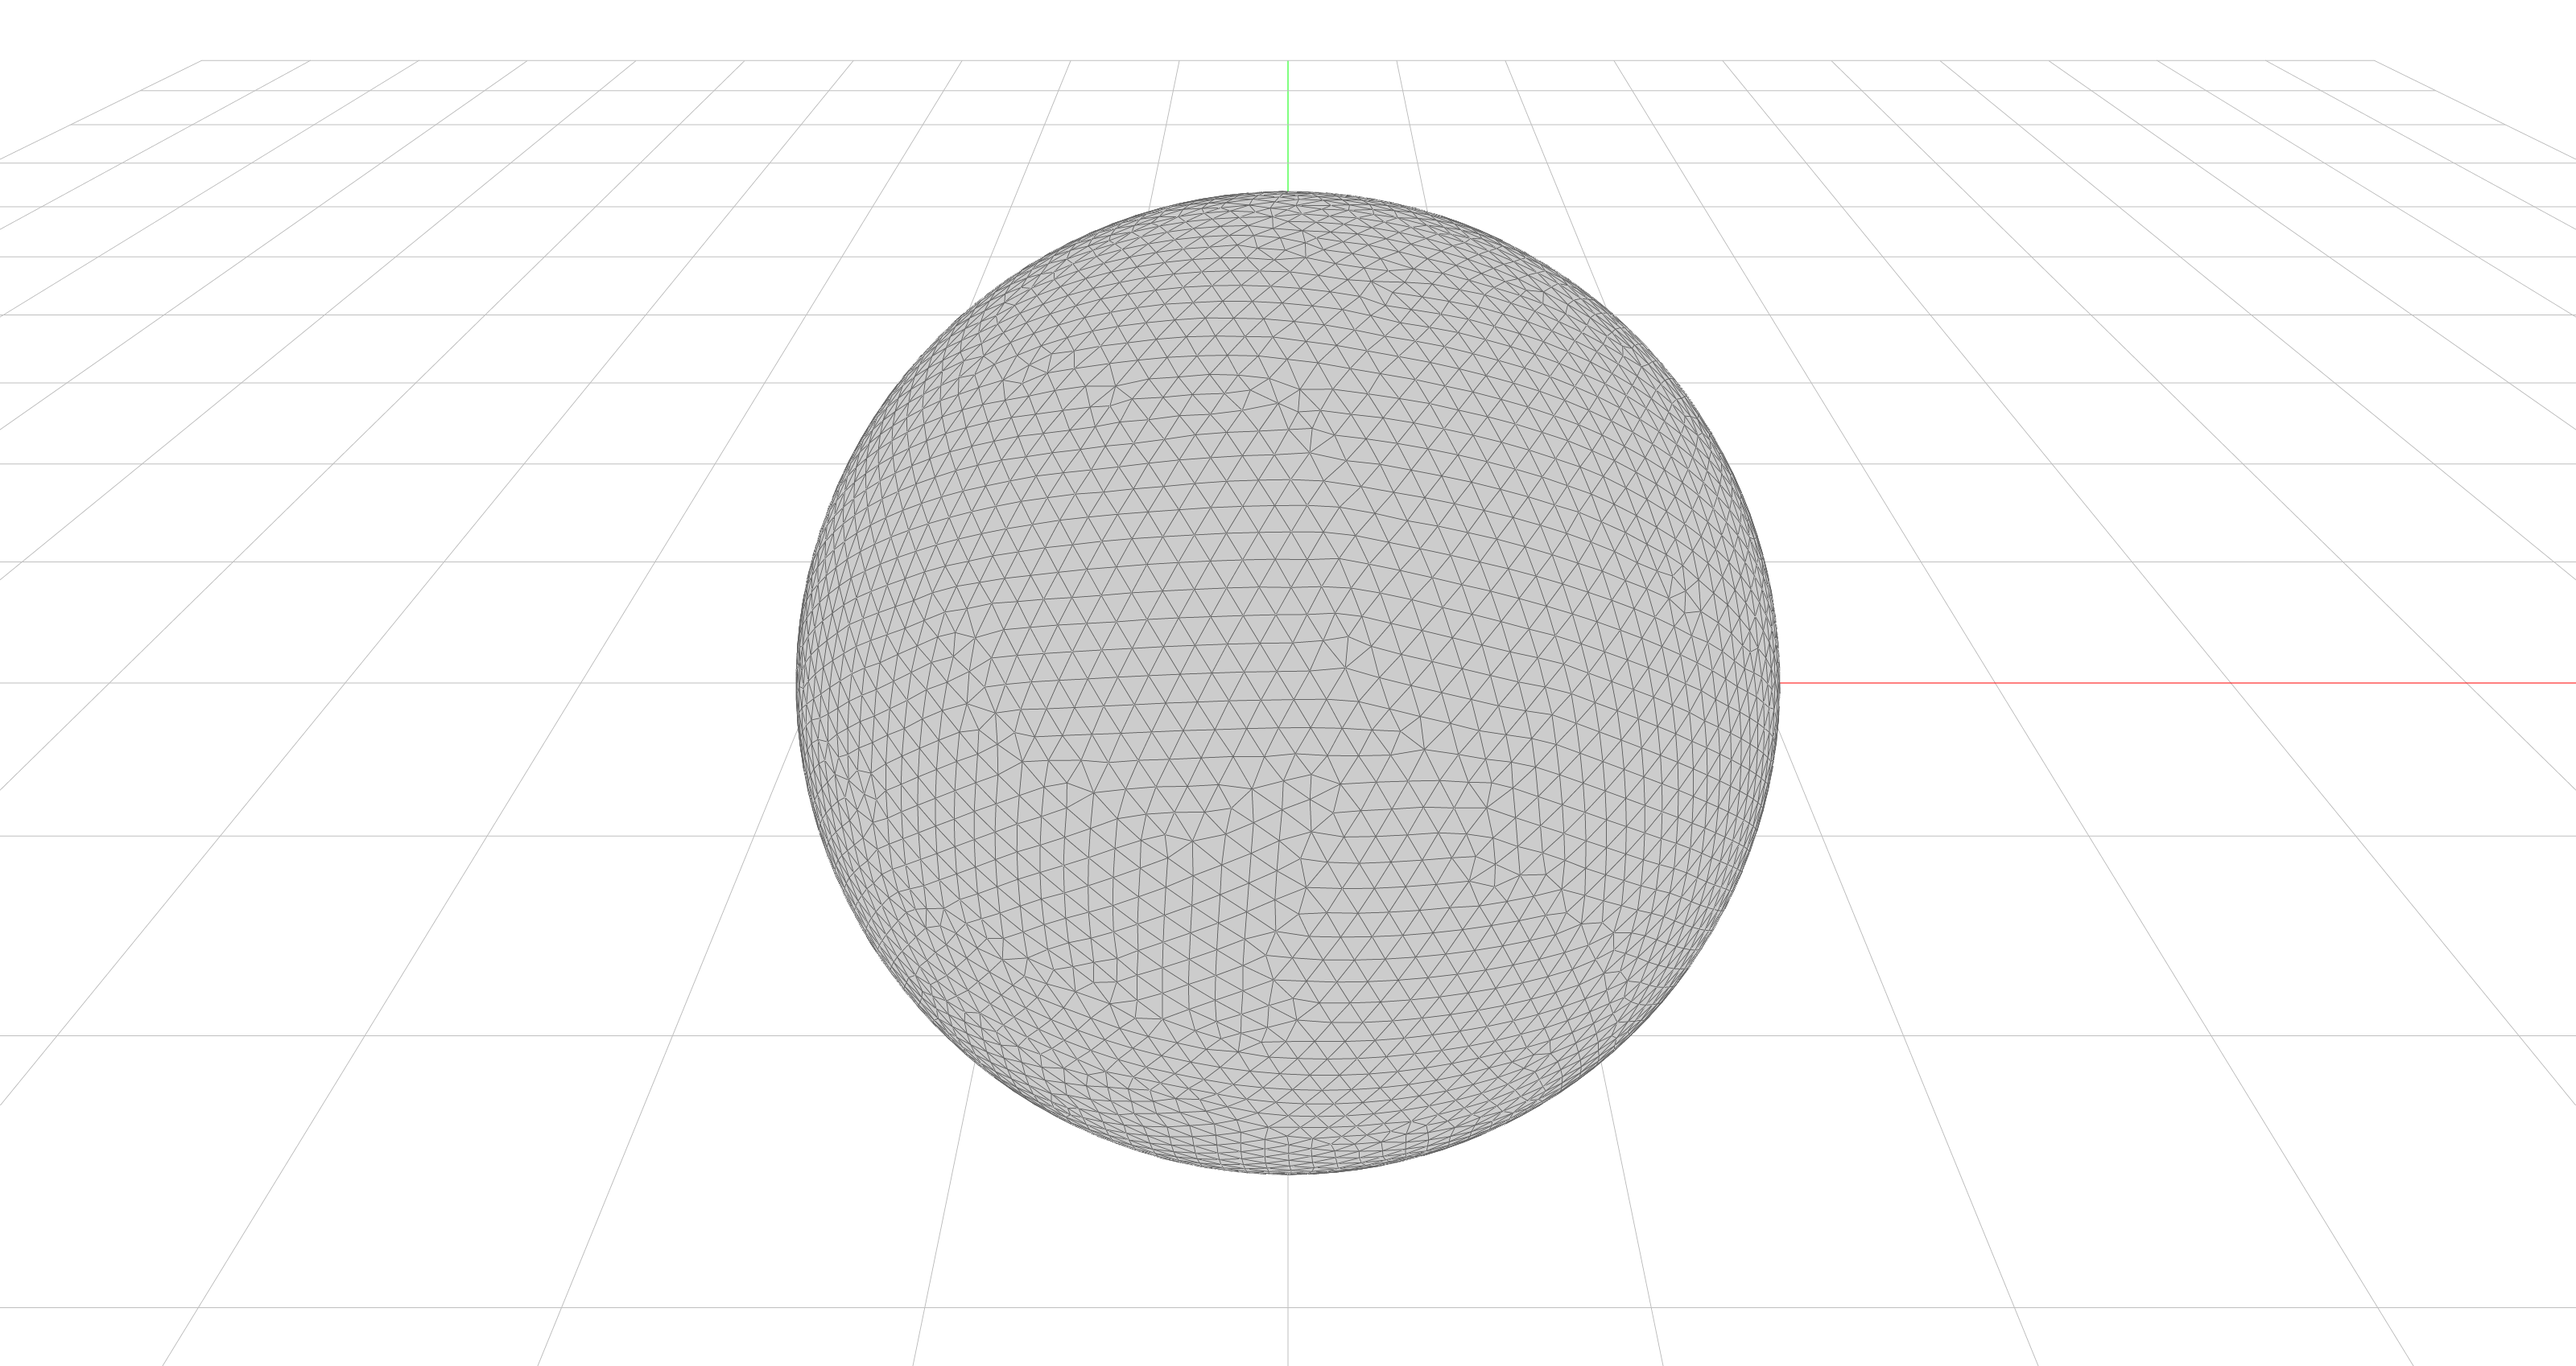
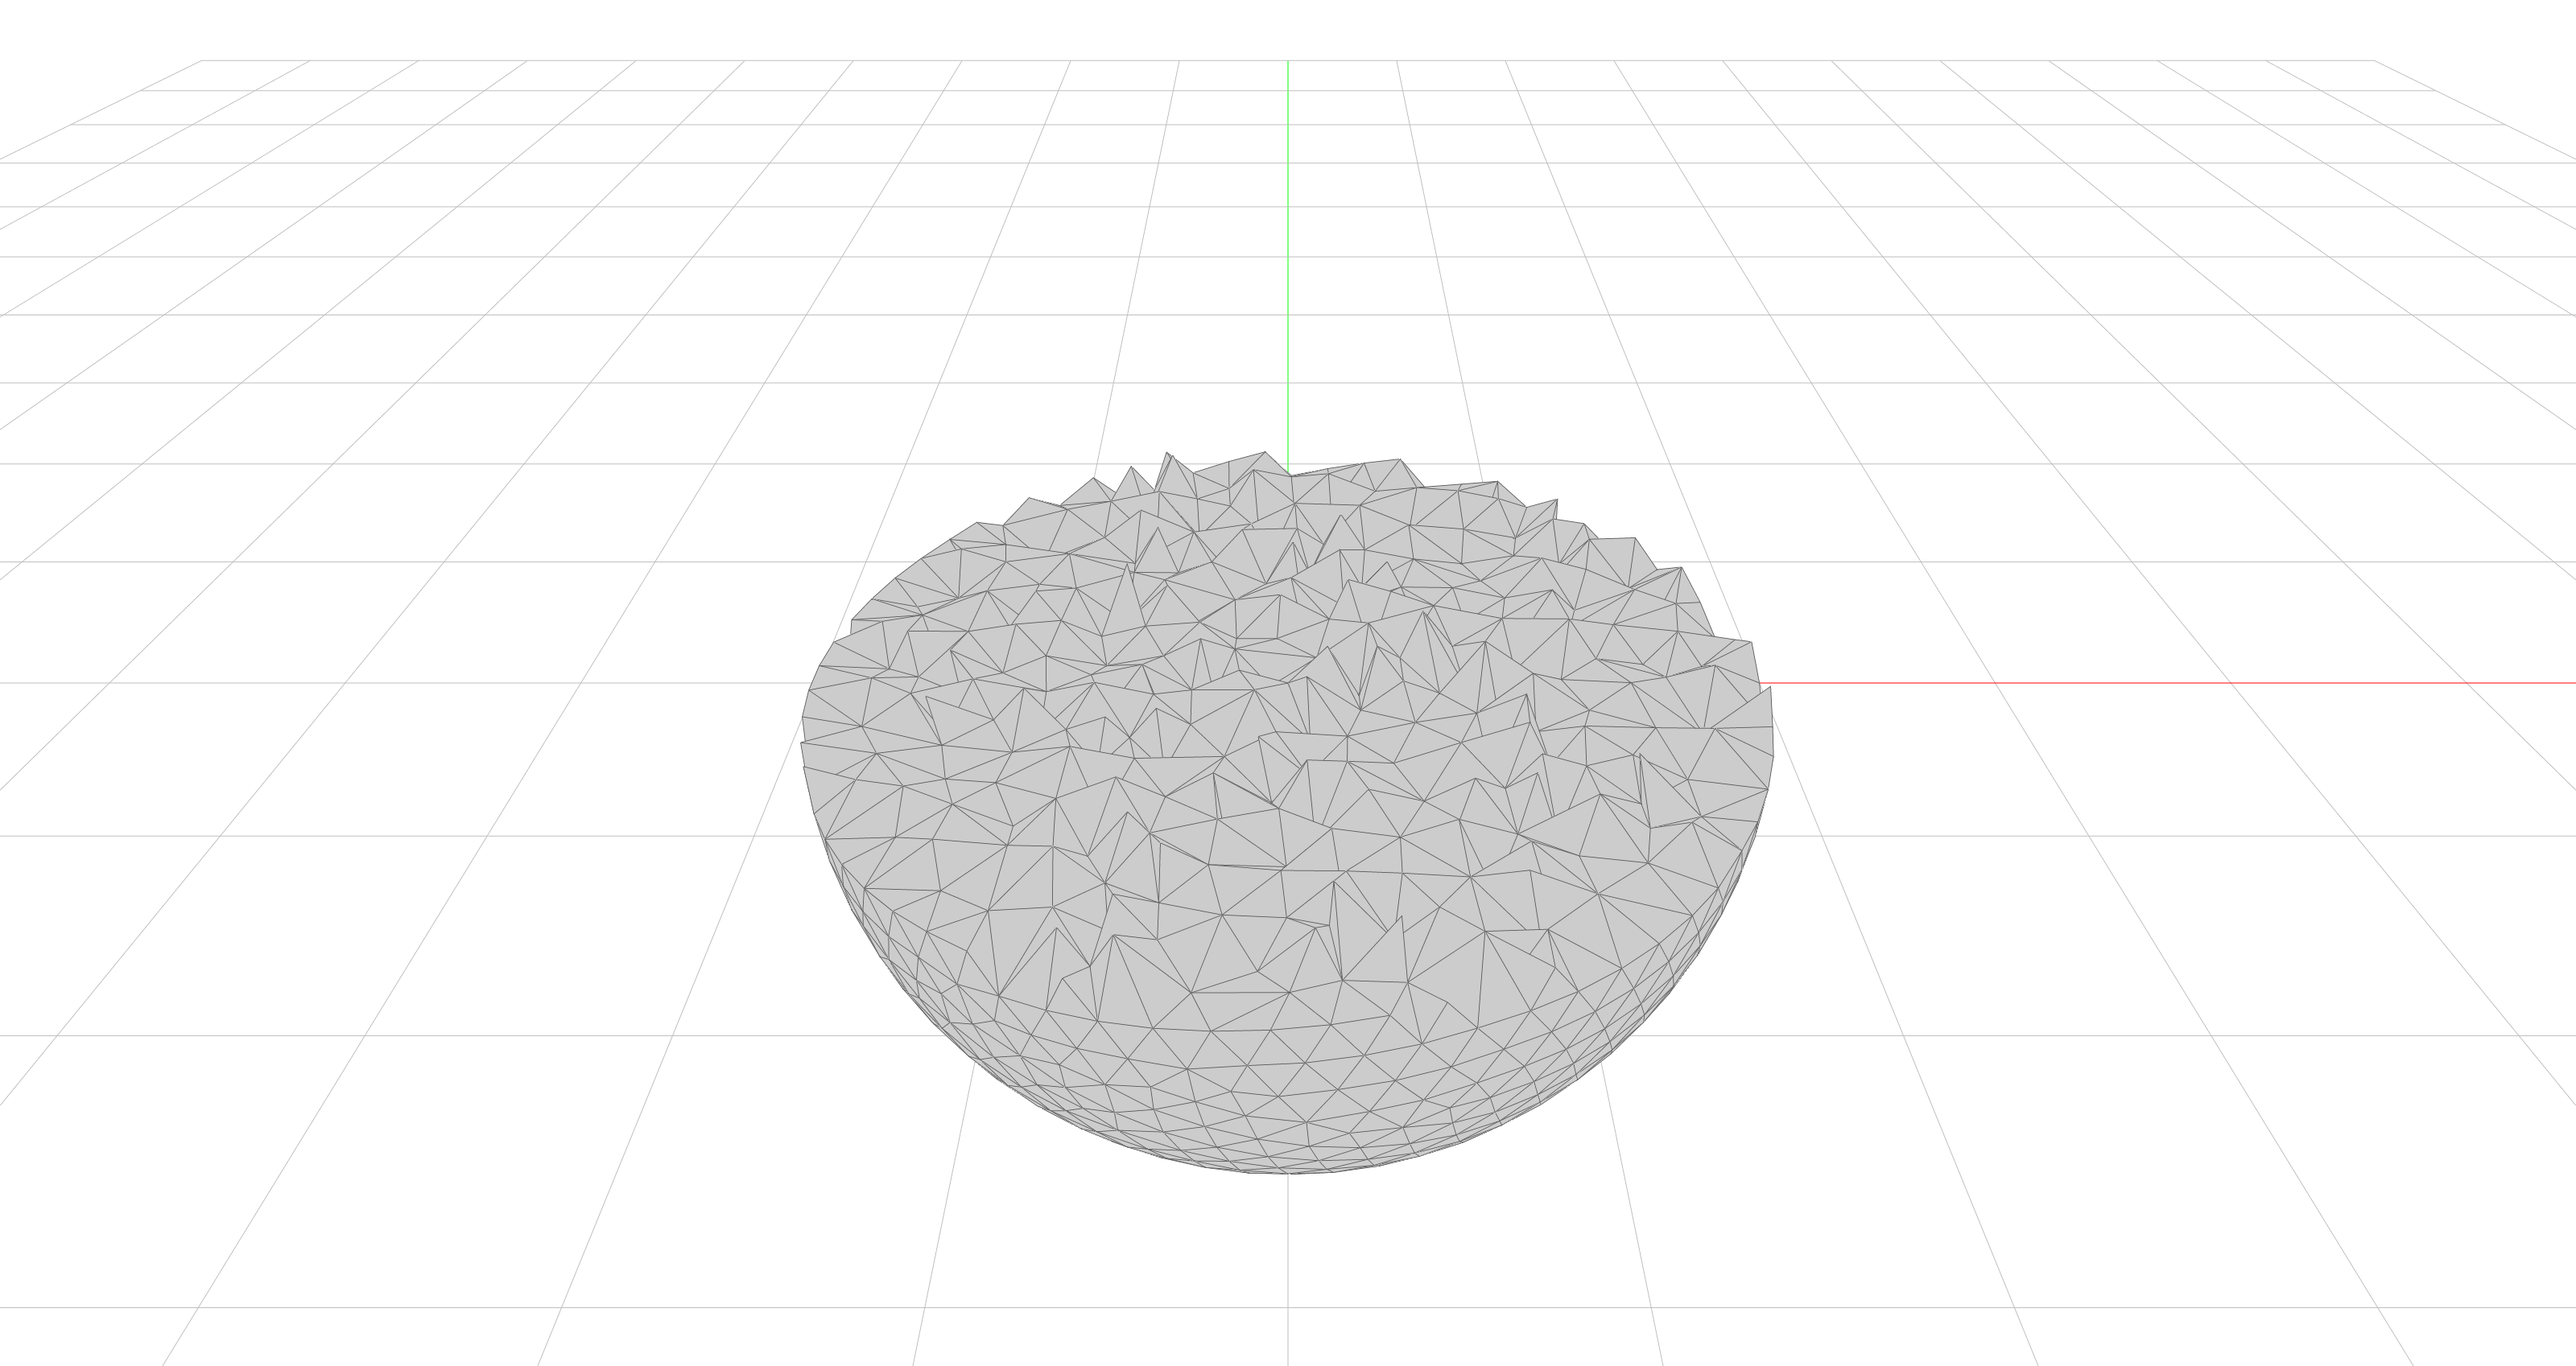
actual tets

Changed region(s): [[0.2812, 0.1249, 0.7188, 0.874]]

diff --git a/src/compas_gmsh/models/model.py b/src/compas_gmsh/models/model.py
@@ -1,10 +1,9 @@
-from __future__ import annotations
-
-from typing import Optional
+from typing import List, Optional
 
 import sys
 import gmsh
 
+from compas.geometry import Polyhedron
 from compas.datastructures import Mesh
 
 from compas_gmsh.options import MeshAlgorithm
@@ -17,7 +16,7 @@ class Model:
     def __init__(self,
                  name: str,
                  verbose: bool = False,
-                 algo: MeshAlgorithm = MeshAlgorithm.FrontalDelaunay) -> Model:
+                 algo: MeshAlgorithm = MeshAlgorithm.FrontalDelaunay) -> None:
         gmsh.initialize(sys.argv)
         gmsh.option.setNumber("General.Terminal", int(verbose))
         gmsh.option.setNumber("Mesh.Algorithm", algo.value)
@@ -105,16 +104,49 @@ class Model:
         faces = []
         for etype, etags, ntags in zip(*elements):
             if etype == 2:
-                # triangles
+                # triangle
                 for i, etag in enumerate(etags):
                     n = self.mesh.getElementProperties(etype)[3]
-                    triangle = ntags[i * n: i * n + n]
-                    faces.append(triangle.tolist())
+                    a, b, c = ntags[i * n: i * n + n]
+                    faces.append([a, b, c])
             elif etype == 3:
-                # quads
+                # quad
                 for i, etag in enumerate(etags):
                     n = self.mesh.getElementProperties(etype)[3]
-                    quad = ntags[i * n: i * n + n]
-                    faces.append(quad.tolist())
+                    a, b, c, d = ntags[i * n: i * n + n]
+                    faces.append([a, b, c, d])
 
         return Mesh.from_vertices_and_faces(xyz, faces)
+
+    def mesh_to_openmesh(self) -> Mesh:
+        """Convert the model mesh to a COMPAS mesh data structure."""
+        pass
+
+    def mesh_to_volmesh(self) -> Mesh:
+        """Convert the model mesh to a COMPAS mesh data structure."""
+        pass
+
+    def mesh_to_tets(self) -> List[Polyhedron]:
+        """Convert the model mesh to a COMPAS mesh data structure."""
+        nodes = self.mesh.getNodes()
+        node_tags = nodes[0]
+        node_coords = nodes[1].reshape((-1, 3), order='C')
+        xyz = {}
+        for tag, coords in zip(node_tags, node_coords):
+            xyz[int(tag)] = coords.tolist()
+        elements = self.mesh.getElements()
+        tets = []
+        for etype, etags, ntags in zip(*elements):
+            if etype == 4:
+                # tetrahedron
+                for i, etag in enumerate(etags):
+                    n = self.mesh.getElementProperties(etype)[3]
+
+                    vertices = [xyz[index] for index in ntags[i * n: i * n + n]]
+                    faces = [
+                        [0, 1, 2],
+                        [0, 2, 3],
+                        [1, 3, 2],
+                        [0, 3, 1]]
+                    tets.append(Polyhedron(vertices, faces))
+        return tets

diff --git a/docs/examples/tets.py b/docs/examples/tets.py
@@ -1,6 +1,6 @@
-from compas.geometry import Sphere
-
+from compas.geometry import Sphere, centroid_points
 from compas_view2.app import App
+from compas_view2.objects import Collection
 from compas_gmsh.models import ShapeModel
 
 # ==============================================================================
@@ -17,8 +17,8 @@ model = ShapeModel(name="tets")
 
 model.add_sphere(sphere)
 
-model.length_min = 0.05
-model.length_max = 0.1
+model.length_min = 0.1
+model.length_max = 0.2
 
 model.generate_mesh(3)
 
@@ -26,7 +26,7 @@ model.generate_mesh(3)
 # COMPAS mesh
 # ==============================================================================
 
-mesh = model.mesh_to_compas()
+tets = model.mesh_to_tets()
 
 # ==============================================================================
 # Visualization with viewer
@@ -40,6 +40,12 @@ viewer.view.camera.tx = 0
 viewer.view.camera.ty = 0
 viewer.view.camera.distance = 7
 
-viewer.add(mesh)
+below = []
+for tet in tets:
+    centroid = centroid_points(tet.vertices)
+    if centroid[2] < 0:
+        below.append(tet)
+
+viewer.add(Collection(below))
 
 viewer.run()

diff --git a/scripts/test.py b/scripts/test.py
@@ -1,0 +1,41 @@
+import openmesh as om
+import numpy as np
+
+mesh = om.TriMesh()
+
+# add a a couple of vertices to the mesh
+vh0 = mesh.add_vertex([0, 1, 0])
+vh1 = mesh.add_vertex([1, 0, 0])
+vh2 = mesh.add_vertex([2, 1, 0])
+vh3 = mesh.add_vertex([0, -1, 0])
+vh4 = mesh.add_vertex([2, -1, 0])
+
+# add a couple of faces to the mesh
+fh0 = mesh.add_face(vh0, vh1, vh2)
+fh1 = mesh.add_face(vh1, vh3, vh4)
+fh2 = mesh.add_face(vh0, vh3, vh1)
+
+# add another face to the mesh, this time using a list
+vh_list = [vh2, vh1, vh4]
+fh3 = mesh.add_face(vh_list)
+
+#  0 ==== 2
+#  |\  0 /|
+#  | \  / |
+#  |2  1 3|
+#  | /  \ |
+#  |/  1 \|
+#  3 ==== 4
+
+# get the point with vertex handle vh0
+point = mesh.point(vh0)
+
+# get all points of the mesh
+point_array = mesh.points()
+
+# translate the mesh along the x-axis
+point_array += np.array([1, 0, 0])
+
+# write and read meshes
+om.write_mesh('test.off', mesh)
+mesh_2 = om.read_trimesh('test.off')

diff --git a/src/compas_gmsh/models/mesh.py b/src/compas_gmsh/models/mesh.py
@@ -1,5 +1,3 @@
-from __future__ import annotations
-
 from typing import Dict, Optional
 
 from compas.datastructures import Mesh
@@ -10,11 +8,11 @@ class MeshModel(Model):
     """Model for mesh (re)meshing."""
 
     @classmethod
-    def from_mesh(cls: MeshModel,
+    def from_mesh(cls: 'MeshModel',
                   mesh: Mesh,
                   default_length: float,
                   name: str = 'Mesh',
-                  vertex_length: Optional[Dict[int, float]] = None) -> MeshModel:
+                  vertex_length: Optional[Dict[int, float]] = None) -> None:
         model = cls(name)
         vertex_length = vertex_length or {}
         vertex_tag = {}

diff --git a/src/compas_gmsh/models/csg.py b/src/compas_gmsh/models/csg.py
@@ -62,7 +62,7 @@ class CSGModel(Model):
 
     """
 
-    def __init__(self, tree: dict, name: str, **kwargs):
+    def __init__(self, tree: dict, name: str, **kwargs) -> None:
         super().__init__(name, **kwargs)
         self._tree = None
         self.tree = tree
